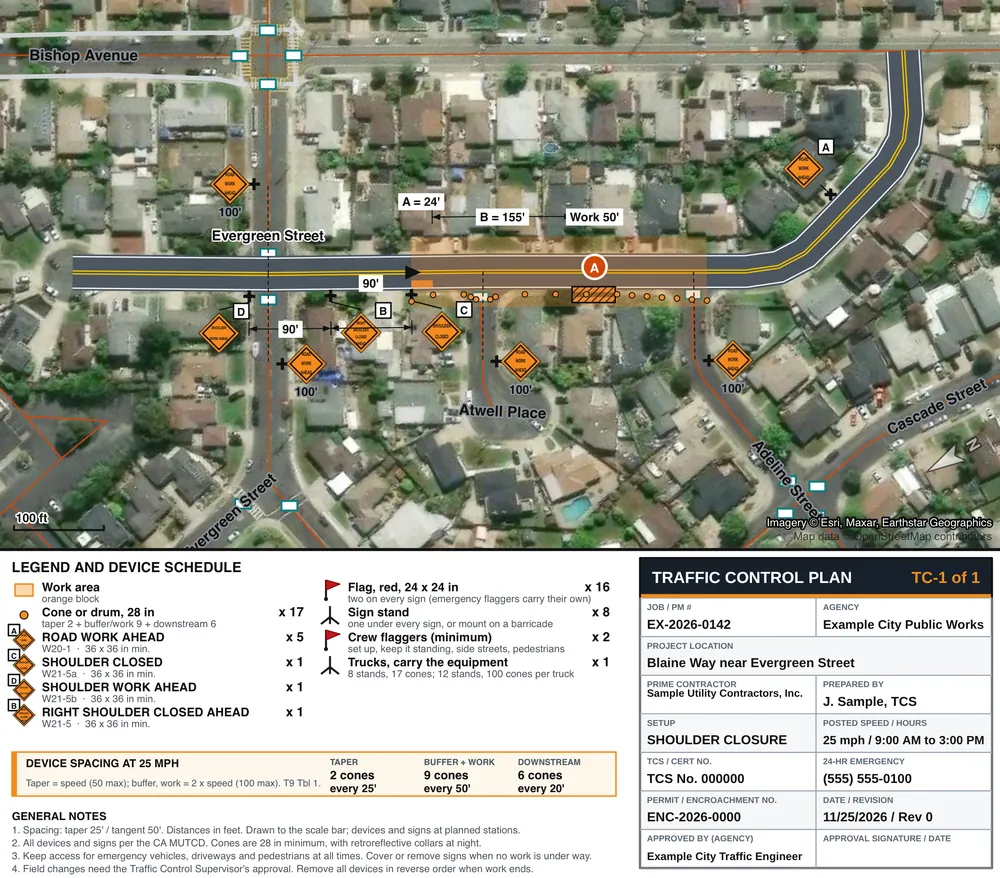
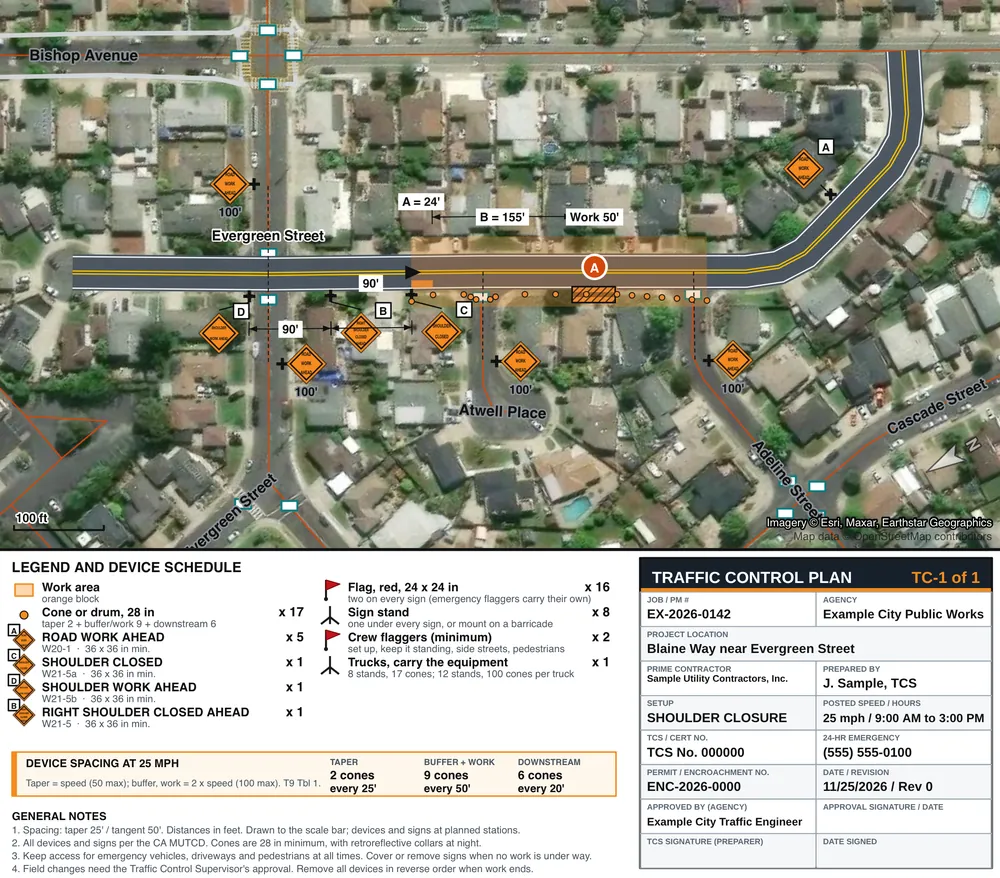
Homepage: sample shows the TCS signature row; soften the submittal claim, note agency checklists
Claude-Session: https://claude.ai/code/session_013ikpAv8jeBeDqLtfD8VX2L

Changed region(s): [[0.62, 0.6458, 0.992, 0.9841]]

diff --git a/index.html b/index.html
@@ -180,7 +180,7 @@ dialog#lb button{position:absolute;top:8px;right:8px;background:var(--ink);color
 
 <header class="top"><div class="wrap">
   <div class="brand" id="brand"><span class="lg"><svg class="lgo" aria-hidden="true" viewBox="0 0 64 64" xmlns="http://www.w3.org/2000/svg"><rect x="6" y="52" width="40" height="6" rx="1.5" fill="#14202b"/><path d="M26 6 L36 6 L44 52 L18 52 Z" fill="#f26a0a"/><path d="M28.6 18 L33.4 18 L34.8 26 L27.2 26 Z" fill="#fff"/><path d="M24.6 33 L37.4 33 L38.8 41 L23.2 41 Z" fill="#fff"/><path d="M40 58 L60 40" stroke="#f26a0a" stroke-width="3.5" stroke-linecap="round"/><path d="M48 58 H60" stroke="#f26a0a" stroke-width="3.5" stroke-linecap="round"/></svg></span><span class="bt"><b>CONE</b><small>Plans that pass</small></span></div>
-  <nav class="menu"><a class="opt" href="#samples">Read a plan</a><a class="opt" href="#submittal">Submittal</a><a class="opt" href="#why">Why CONE</a><a class="opt" href="#pricing">Pricing</a><a class="opt" href="#faq">Questions</a><a id="login" class="opt" href="#" hidden>Member login</a><a class="btn" href="#request">Request a plan</a></nav>
+  <nav class="menu"><a class="opt" href="#samples">Read a plan</a><a class="opt" href="#submittal">Finished plan</a><a class="opt" href="#why">Why CONE</a><a class="opt" href="#pricing">Pricing</a><a class="opt" href="#faq">Questions</a><a id="login" class="opt" href="#" hidden>Member login</a><a class="btn" href="#request">Request a plan</a></nav>
 </div></header>
 
 <div class="hero"><div class="wrap">
@@ -207,10 +207,10 @@ dialog#lb button{position:absolute;top:8px;right:8px;background:var(--ink);color
 </div></section>
 
 <section id="submittal" class="band"><div class="wrap">
-  <h2>Ready to hand to the city</h2>
-  <p class="lede">Every box on the sheet is filled in. The only thing left is the agency's signature.</p>
+  <h2>A finished plan, every box filled in</h2>
+  <p class="lede">The title block carries what a reviewer looks for. Two signature boxes stay blank: yours as the traffic control supervisor, and the agency's.</p>
   <div class="sub">
-    <button type="button" class="paper" data-zoom="samples/blaine-way-shoulder-closure-full.webp" data-cap="Example submittal: every title block field filled in with sample information" aria-label="Enlarge the finished plan"><img src="samples/blaine-way-shoulder-closure.webp" loading="lazy" width="2000" height="1756" alt="A completed traffic control plan with every title block field filled in and the approval signature box empty"></button>
+    <button type="button" class="paper" data-zoom="samples/blaine-way-shoulder-closure-full.webp" data-cap="Example plan: every title block field filled in with sample information" aria-label="Enlarge the finished plan"><img src="samples/blaine-way-shoulder-closure.webp" loading="lazy" width="2000" height="1756" alt="A completed traffic control plan with every title block field filled in and the signature boxes empty"></button>
     <div class="subtxt">
       <h3>What the reviewer finds</h3>
       <table class="tbk">
@@ -224,8 +224,9 @@ dialog#lb button{position:absolute;top:8px;right:8px;background:var(--ink);color
         <tr><th>24-hour contact</th><td>(555) 555-0100</td></tr>
         <tr><th>Date and revision</th><td>11/25/2026, Rev 0</td></tr>
         <tr><th>Approved by</th><td>Example City Traffic Engineer, signature and date left for the agency</td></tr>
+        <tr><th>Preparer</th><td>Signature and date box for the TCS</td></tr>
       </table>
-      <p class="rnote" style="margin-top:12px">All names, numbers and dates here are sample information, not a real company or certificate.</p>
+      <p class="rnote" style="margin-top:12px">All names, numbers and dates here are sample information, not a real company or certificate. Agencies ask for different extras, such as insurance or a permit form, so each plan comes with that agency's own checklist.</p>
     </div>
   </div>
 </div></section>
